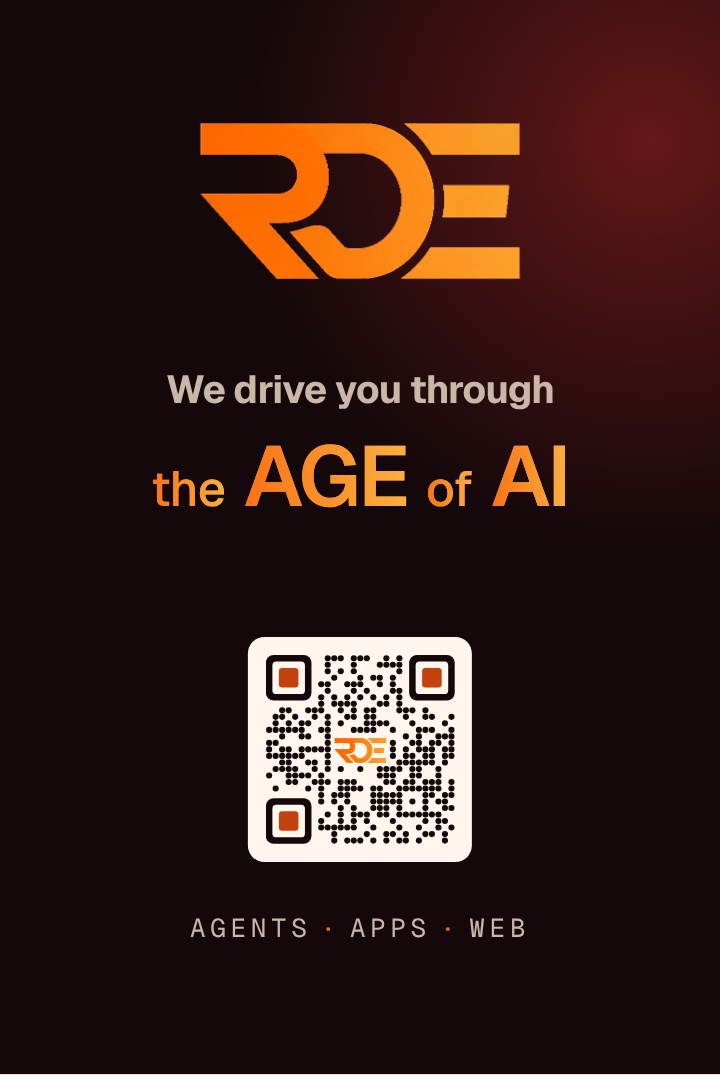
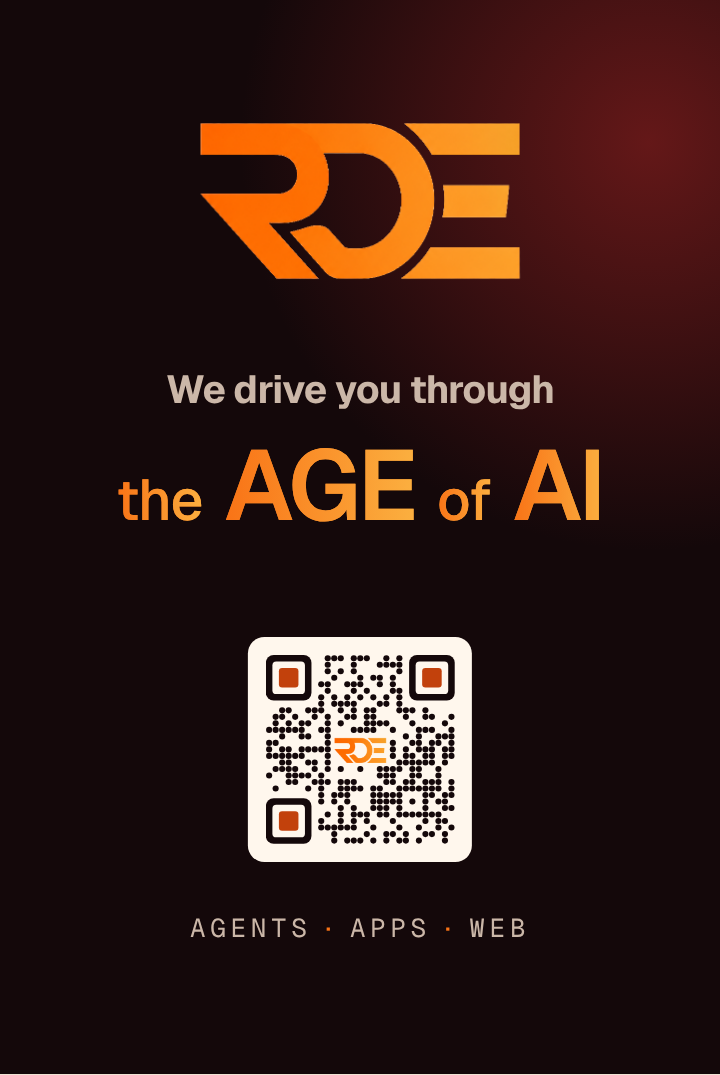
Business card portrait: larger 'the AGE of AI' line
Claude-Session: https://claude.ai/code/session_01B6fozEJdCLAGrKoXUG1e35

Changed region(s): [[0.1528, 0.3991, 0.8556, 0.4912]]

diff --git a/business-card/_p-back-bleed.html b/business-card/_p-back-bleed.html
@@ -51,7 +51,7 @@ body{margin:0;background:var(--bg);color:var(--fg);font-family:var(--font)}
 .logo{left:50%;transform:translateX(-50%);top:calc(7 * var(--mm));height:calc(14 * var(--mm));width:auto;display:block}
 .hl{left:0;right:0;top:calc(28 * var(--mm));text-align:center}
 .hl h2{margin:0;font-weight:400;font-size:calc(3.3 * var(--mm));line-height:1.2;white-space:nowrap;color:#cbb7a8;letter-spacing:-.02em}
-.hl h2 b{display:block;margin-top:calc(1.5 * var(--mm));font-weight:600;font-size:calc(7.2 * var(--mm));line-height:1.1;white-space:nowrap;letter-spacing:-.025em;background:linear-gradient(90deg,#f97316,#fbb040);-webkit-background-clip:text;background-clip:text;color:transparent}
+.hl h2 b{display:block;margin-top:calc(1.5 * var(--mm));font-weight:600;font-size:calc(8.4 * var(--mm));line-height:1.1;white-space:nowrap;letter-spacing:-.025em;background:linear-gradient(90deg,#f97316,#fbb040);-webkit-background-clip:text;background-clip:text;color:transparent}
 .hl h2 b span,.hl h2 b s{background:linear-gradient(90deg,#f97316,#fbb040);-webkit-background-clip:text;background-clip:text;color:transparent}
 .hl h2 b s{text-decoration:none;font-size:.58em;font-weight:500;letter-spacing:-.01em}
 .sub{left:0;right:0;bottom:calc(8 * var(--mm));text-align:center;font-family:var(--mono);text-transform:uppercase;font-size:calc(2.2 * var(--mm));letter-spacing:.18em;line-height:1.2;color:#cbb7a8;white-space:nowrap}

diff --git a/business-card/_p-back.html b/business-card/_p-back.html
@@ -51,7 +51,7 @@ body{margin:0;background:var(--bg);color:var(--fg);font-family:var(--font)}
 .logo{left:50%;transform:translateX(-50%);top:calc(7 * var(--mm));height:calc(14 * var(--mm));width:auto;display:block}
 .hl{left:0;right:0;top:calc(28 * var(--mm));text-align:center}
 .hl h2{margin:0;font-weight:400;font-size:calc(3.3 * var(--mm));line-height:1.2;white-space:nowrap;color:#cbb7a8;letter-spacing:-.02em}
-.hl h2 b{display:block;margin-top:calc(1.5 * var(--mm));font-weight:600;font-size:calc(7.2 * var(--mm));line-height:1.1;white-space:nowrap;letter-spacing:-.025em;background:linear-gradient(90deg,#f97316,#fbb040);-webkit-background-clip:text;background-clip:text;color:transparent}
+.hl h2 b{display:block;margin-top:calc(1.5 * var(--mm));font-weight:600;font-size:calc(8.4 * var(--mm));line-height:1.1;white-space:nowrap;letter-spacing:-.025em;background:linear-gradient(90deg,#f97316,#fbb040);-webkit-background-clip:text;background-clip:text;color:transparent}
 .hl h2 b span,.hl h2 b s{background:linear-gradient(90deg,#f97316,#fbb040);-webkit-background-clip:text;background-clip:text;color:transparent}
 .hl h2 b s{text-decoration:none;font-size:.58em;font-weight:500;letter-spacing:-.01em}
 .sub{left:0;right:0;bottom:calc(8 * var(--mm));text-align:center;font-family:var(--mono);text-transform:uppercase;font-size:calc(2.2 * var(--mm));letter-spacing:.18em;line-height:1.2;color:#cbb7a8;white-space:nowrap}

diff --git a/business-card/_p-front-bleed.html b/business-card/_p-front-bleed.html
@@ -51,7 +51,7 @@ body{margin:0;background:var(--bg);color:var(--fg);font-family:var(--font)}
 .logo{left:50%;transform:translateX(-50%);top:calc(7 * var(--mm));height:calc(14 * var(--mm));width:auto;display:block}
 .hl{left:0;right:0;top:calc(28 * var(--mm));text-align:center}
 .hl h2{margin:0;font-weight:400;font-size:calc(3.3 * var(--mm));line-height:1.2;white-space:nowrap;color:#cbb7a8;letter-spacing:-.02em}
-.hl h2 b{display:block;margin-top:calc(1.5 * var(--mm));font-weight:600;font-size:calc(7.2 * var(--mm));line-height:1.1;white-space:nowrap;letter-spacing:-.025em;background:linear-gradient(90deg,#f97316,#fbb040);-webkit-background-clip:text;background-clip:text;color:transparent}
+.hl h2 b{display:block;margin-top:calc(1.5 * var(--mm));font-weight:600;font-size:calc(8.4 * var(--mm));line-height:1.1;white-space:nowrap;letter-spacing:-.025em;background:linear-gradient(90deg,#f97316,#fbb040);-webkit-background-clip:text;background-clip:text;color:transparent}
 .hl h2 b span,.hl h2 b s{background:linear-gradient(90deg,#f97316,#fbb040);-webkit-background-clip:text;background-clip:text;color:transparent}
 .hl h2 b s{text-decoration:none;font-size:.58em;font-weight:500;letter-spacing:-.01em}
 .sub{left:0;right:0;bottom:calc(8 * var(--mm));text-align:center;font-family:var(--mono);text-transform:uppercase;font-size:calc(2.2 * var(--mm));letter-spacing:.18em;line-height:1.2;color:#cbb7a8;white-space:nowrap}

diff --git a/business-card/_p-front.html b/business-card/_p-front.html
@@ -51,7 +51,7 @@ body{margin:0;background:var(--bg);color:var(--fg);font-family:var(--font)}
 .logo{left:50%;transform:translateX(-50%);top:calc(7 * var(--mm));height:calc(14 * var(--mm));width:auto;display:block}
 .hl{left:0;right:0;top:calc(28 * var(--mm));text-align:center}
 .hl h2{margin:0;font-weight:400;font-size:calc(3.3 * var(--mm));line-height:1.2;white-space:nowrap;color:#cbb7a8;letter-spacing:-.02em}
-.hl h2 b{display:block;margin-top:calc(1.5 * var(--mm));font-weight:600;font-size:calc(7.2 * var(--mm));line-height:1.1;white-space:nowrap;letter-spacing:-.025em;background:linear-gradient(90deg,#f97316,#fbb040);-webkit-background-clip:text;background-clip:text;color:transparent}
+.hl h2 b{display:block;margin-top:calc(1.5 * var(--mm));font-weight:600;font-size:calc(8.4 * var(--mm));line-height:1.1;white-space:nowrap;letter-spacing:-.025em;background:linear-gradient(90deg,#f97316,#fbb040);-webkit-background-clip:text;background-clip:text;color:transparent}
 .hl h2 b span,.hl h2 b s{background:linear-gradient(90deg,#f97316,#fbb040);-webkit-background-clip:text;background-clip:text;color:transparent}
 .hl h2 b s{text-decoration:none;font-size:.58em;font-weight:500;letter-spacing:-.01em}
 .sub{left:0;right:0;bottom:calc(8 * var(--mm));text-align:center;font-family:var(--mono);text-transform:uppercase;font-size:calc(2.2 * var(--mm));letter-spacing:.18em;line-height:1.2;color:#cbb7a8;white-space:nowrap}

diff --git a/business-card/portrait.html b/business-card/portrait.html
@@ -51,7 +51,7 @@ body{margin:0;background:var(--bg);color:var(--fg);font-family:var(--font)}
 .logo{left:50%;transform:translateX(-50%);top:calc(7 * var(--mm));height:calc(14 * var(--mm));width:auto;display:block}
 .hl{left:0;right:0;top:calc(28 * var(--mm));text-align:center}
 .hl h2{margin:0;font-weight:400;font-size:calc(3.3 * var(--mm));line-height:1.2;white-space:nowrap;color:#cbb7a8;letter-spacing:-.02em}
-.hl h2 b{display:block;margin-top:calc(1.5 * var(--mm));font-weight:600;font-size:calc(7.2 * var(--mm));line-height:1.1;white-space:nowrap;letter-spacing:-.025em;background:linear-gradient(90deg,#f97316,#fbb040);-webkit-background-clip:text;background-clip:text;color:transparent}
+.hl h2 b{display:block;margin-top:calc(1.5 * var(--mm));font-weight:600;font-size:calc(8.4 * var(--mm));line-height:1.1;white-space:nowrap;letter-spacing:-.025em;background:linear-gradient(90deg,#f97316,#fbb040);-webkit-background-clip:text;background-clip:text;color:transparent}
 .hl h2 b span,.hl h2 b s{background:linear-gradient(90deg,#f97316,#fbb040);-webkit-background-clip:text;background-clip:text;color:transparent}
 .hl h2 b s{text-decoration:none;font-size:.58em;font-weight:500;letter-spacing:-.01em}
 .sub{left:0;right:0;bottom:calc(8 * var(--mm));text-align:center;font-family:var(--mono);text-transform:uppercase;font-size:calc(2.2 * var(--mm));letter-spacing:.18em;line-height:1.2;color:#cbb7a8;white-space:nowrap}

diff --git a/business-card/preview.html b/business-card/preview.html
@@ -51,7 +51,7 @@ body{margin:0;background:var(--bg);color:var(--fg);font-family:var(--font)}
 .logo{left:50%;transform:translateX(-50%);top:calc(7 * var(--mm));height:calc(14 * var(--mm));width:auto;display:block}
 .hl{left:0;right:0;top:calc(28 * var(--mm));text-align:center}
 .hl h2{margin:0;font-weight:400;font-size:calc(3.3 * var(--mm));line-height:1.2;white-space:nowrap;color:#cbb7a8;letter-spacing:-.02em}
-.hl h2 b{display:block;margin-top:calc(1.5 * var(--mm));font-weight:600;font-size:calc(7.2 * var(--mm));line-height:1.1;white-space:nowrap;letter-spacing:-.025em;background:linear-gradient(90deg,#f97316,#fbb040);-webkit-background-clip:text;background-clip:text;color:transparent}
+.hl h2 b{display:block;margin-top:calc(1.5 * var(--mm));font-weight:600;font-size:calc(8.4 * var(--mm));line-height:1.1;white-space:nowrap;letter-spacing:-.025em;background:linear-gradient(90deg,#f97316,#fbb040);-webkit-background-clip:text;background-clip:text;color:transparent}
 .hl h2 b span,.hl h2 b s{background:linear-gradient(90deg,#f97316,#fbb040);-webkit-background-clip:text;background-clip:text;color:transparent}
 .hl h2 b s{text-decoration:none;font-size:.58em;font-weight:500;letter-spacing:-.01em}
 .sub{left:0;right:0;bottom:calc(8 * var(--mm));text-align:center;font-family:var(--mono);text-transform:uppercase;font-size:calc(2.2 * var(--mm));letter-spacing:.18em;line-height:1.2;color:#cbb7a8;white-space:nowrap}

diff --git a/business-card/build_portrait.py b/business-card/build_portrait.py
@@ -18,7 +18,7 @@ body{margin:0;background:var(--bg);color:var(--fg);font-family:var(--font)}
 .logo{left:50%;transform:translateX(-50%);top:calc(7 * var(--mm));height:calc(14 * var(--mm));width:auto;display:block}
 .hl{left:0;right:0;top:calc(28 * var(--mm));text-align:center}
 .hl h2{margin:0;font-weight:400;font-size:calc(3.3 * var(--mm));line-height:1.2;white-space:nowrap;color:#cbb7a8;letter-spacing:-.02em}
-.hl h2 b{display:block;margin-top:calc(1.5 * var(--mm));font-weight:600;font-size:calc(7.2 * var(--mm));line-height:1.1;white-space:nowrap;letter-spacing:-.025em;background:linear-gradient(90deg,#f97316,#fbb040);-webkit-background-clip:text;background-clip:text;color:transparent}
+.hl h2 b{display:block;margin-top:calc(1.5 * var(--mm));font-weight:600;font-size:calc(8.4 * var(--mm));line-height:1.1;white-space:nowrap;letter-spacing:-.025em;background:linear-gradient(90deg,#f97316,#fbb040);-webkit-background-clip:text;background-clip:text;color:transparent}
 .hl h2 b span,.hl h2 b s{background:linear-gradient(90deg,#f97316,#fbb040);-webkit-background-clip:text;background-clip:text;color:transparent}
 .hl h2 b s{text-decoration:none;font-size:.58em;font-weight:500;letter-spacing:-.01em}
 .sub{left:0;right:0;bottom:calc(8 * var(--mm));text-align:center;font-family:var(--mono);text-transform:uppercase;font-size:calc(2.2 * var(--mm));letter-spacing:.18em;line-height:1.2;color:#cbb7a8;white-space:nowrap}
